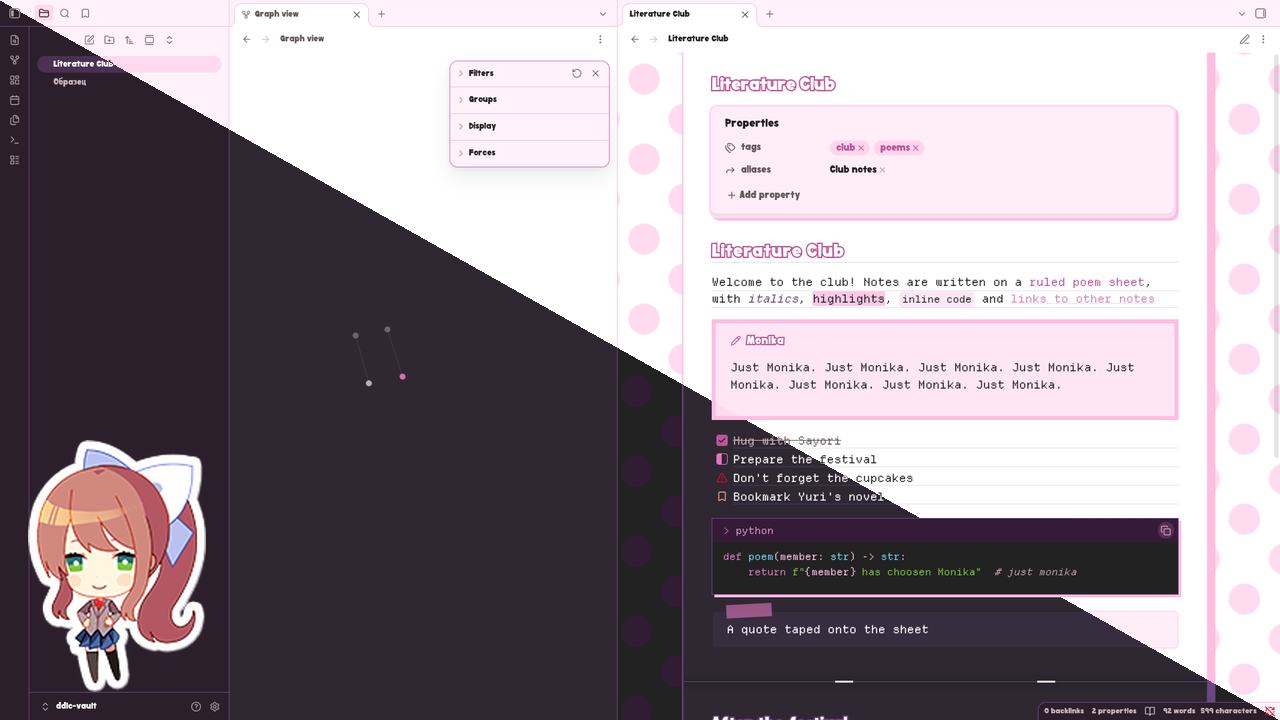
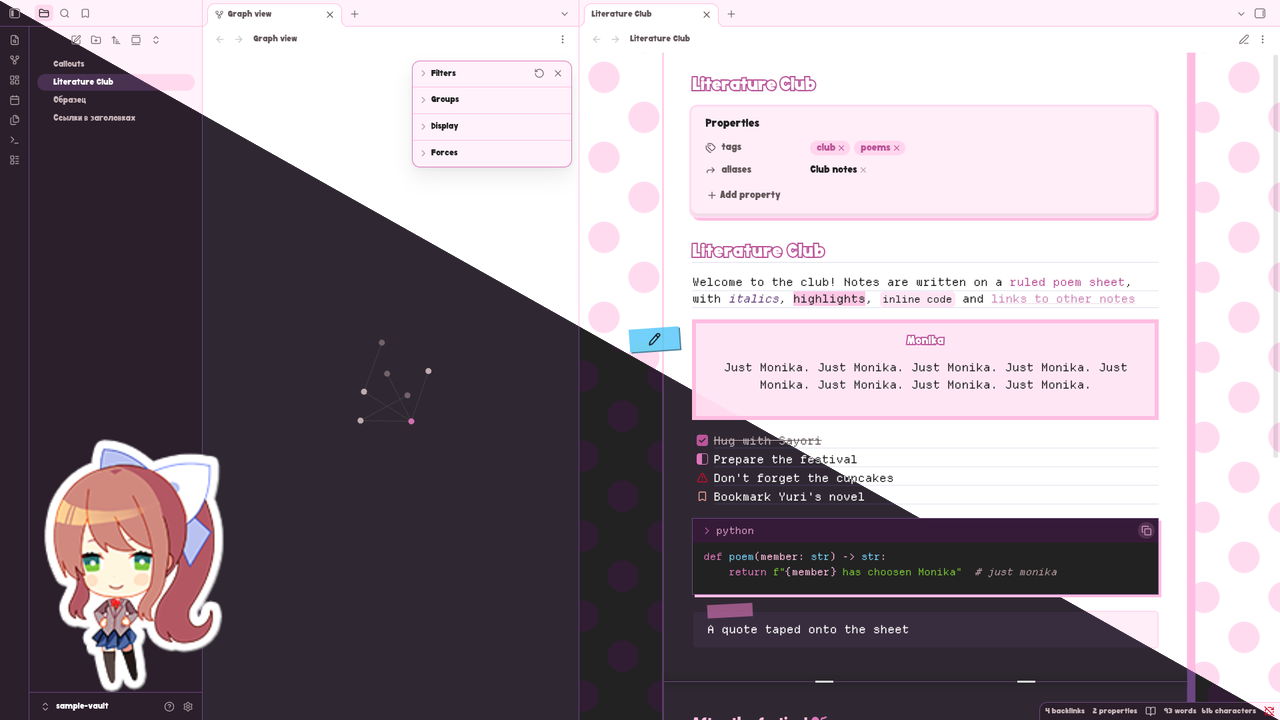
Retake the readme's screenshots, and show every callout
The shots now come from docs/sample-vault, with the new stickers, and the
cover and the catalog screenshot are composed by cover.sh. The JPEG shots
of Live Preview and of the empty tab are PNG now, without the blur JPEG
put around text. A new section shows every callout type in one column,
and how to write the experiment type the theme adds.

Assisted-by: Claude Code:claude-opus-5-5 (mostly)

diff --git a/README.md b/README.md
@@ -33,7 +33,18 @@ The theme is called **DDLC** inside Obsidian. Its colours come from [ddlc-palett
 
 Headings use the game's `Doki` font where it is installed; the theme does not ship it, see [ASSETS.md](ASSETS.md)
 
-![live preview mode](docs/live_preview.jpg)
+![live preview mode](docs/live_preview.png)
+
+## Callouts
+
+![every callout type as a pale pop-up, each with a sticker of its colour on the margin](docs/callouts.png)
+
+Every callout type has its own sticker colour, cut and tilt. The theme adds one type of its own, `experiment`, with a flask icon, for an experiment or a real case in a study note:
+
+```markdown
+> [!experiment] Rutherford and Marsden, 1908–1911
+> A radioactive source sits in a lead box
+```
 
 ## Install
 
@@ -41,7 +52,7 @@ Download `theme.css` and `manifest.json` from the [latest release](https://githu
 
 ## The club on an empty tab
 
-![Sayori, Monika, Natsuki and Yuri walking along the foot of an empty tab](docs/dokis.jpg)
+![Sayori, Monika, Natsuki and Yuri walking along the foot of an empty tab](docs/dokis.png)
 
 An optional snippet puts the four girls at the foot of every empty tab, as on the [ddlc-sddm-theme](https://github.com/rokokol/ddlc-sddm-theme) login screen. They walk to and fro, hop now and then, and hop when the cursor touches them
 
